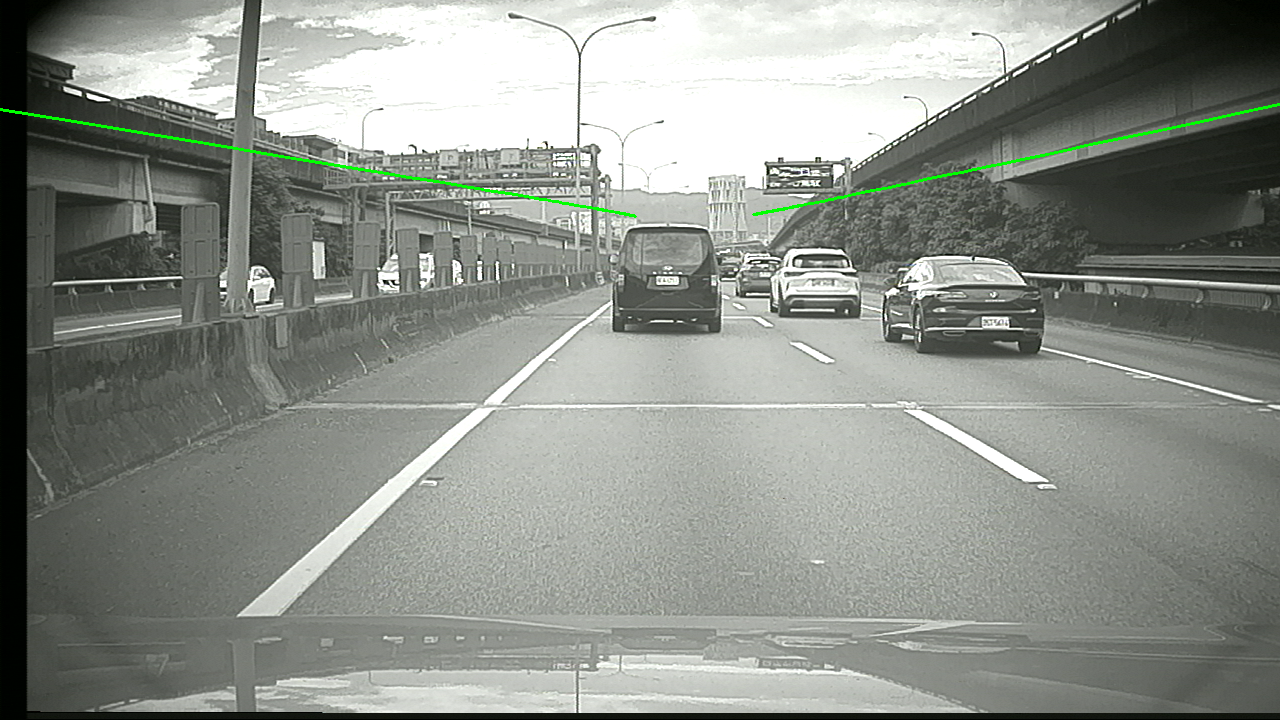
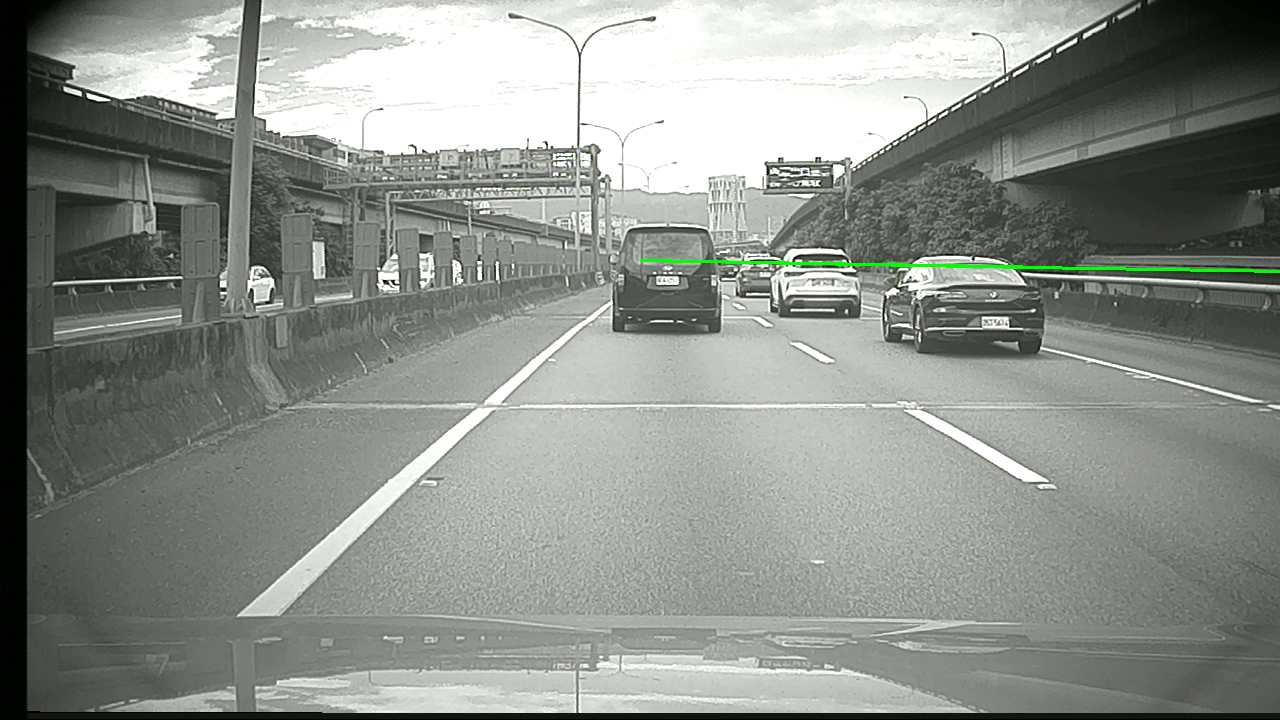
更新相機內參與外參，新增 Q4ToCam 轉換矩陣，並新增校準檔案

diff --git a/lane_project.py b/lane_project.py
@@ -20,11 +20,18 @@ K = np.array([
     [0.0, 1418.667, 360.0],
     [0.0, 0.0, 1.0]
 ])
-T_lidar_to_cam = np.array([
-    [ 0.037, -0.999,  0.009,  0.0],
-    [-0.094, -0.012, -0.996, -0.3],
-    [ 0.995,  0.036, -0.094, -0.43],
-    [ 0.0,    0.0,    0.0,    1.0]
+# T_q4_to_cam = np.array([
+#     [ 0.037, -0.999,  0.009,  0.0],
+#     [-0.094, -0.012, -0.996, -0.3],
+#     [ 0.995,  0.036, -0.094, -0.43],
+#     [ 0.0,    0.0,    0.0,    1.0]
+# ])
+
+T_q4_to_cam = np.array([
+    [ 1.0, -0.001,  -0.017,  0.0],
+    [0.017, 0.07, 0.997, 0.0],
+    [ 0.0,  -0.998, 0.07, 0.0],
+    [ 0.1,    -1.28,    -0.865,    1.0]
 ])
 
 # === 3. 讀影像 ===
@@ -73,7 +80,7 @@ for coef, length in lane_polys:
     pts_ego = np.stack([x_vals, y_vals, z_vals], axis=1)
 
     # 車體 → 相機
-    RT = T_lidar_to_cam
+    RT = T_q4_to_cam
     pts_homo = np.hstack([pts_ego, np.ones((pts_ego.shape[0], 1))])
     pts_cam = (RT @ pts_homo.T).T[:, :3]
 
